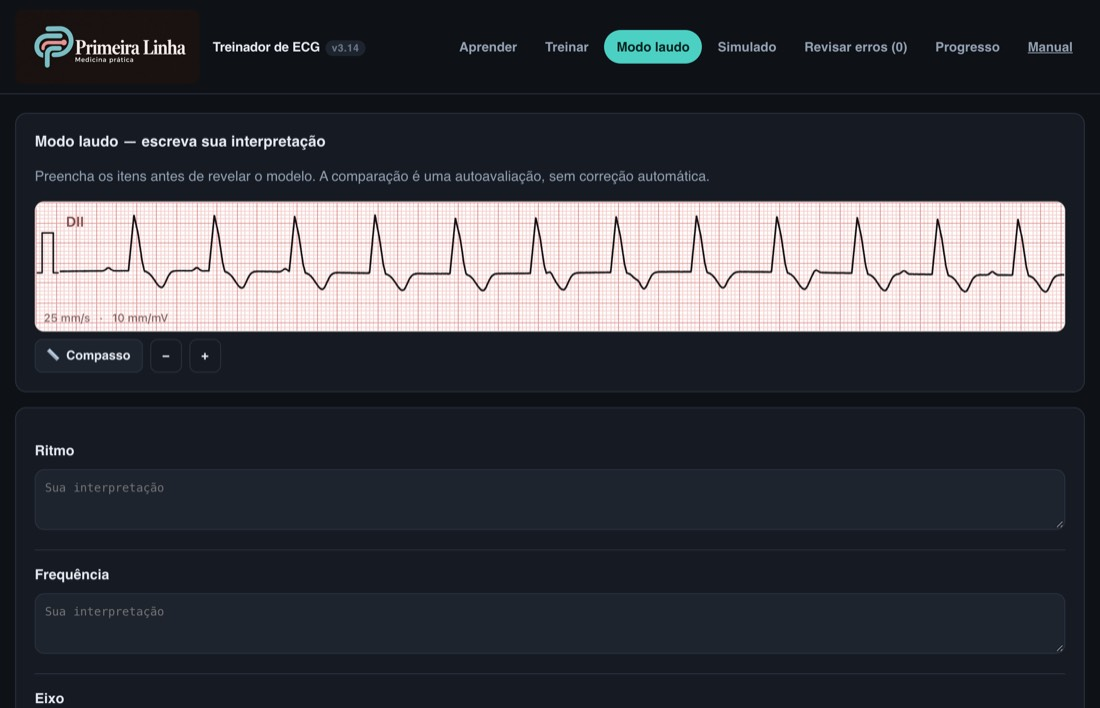
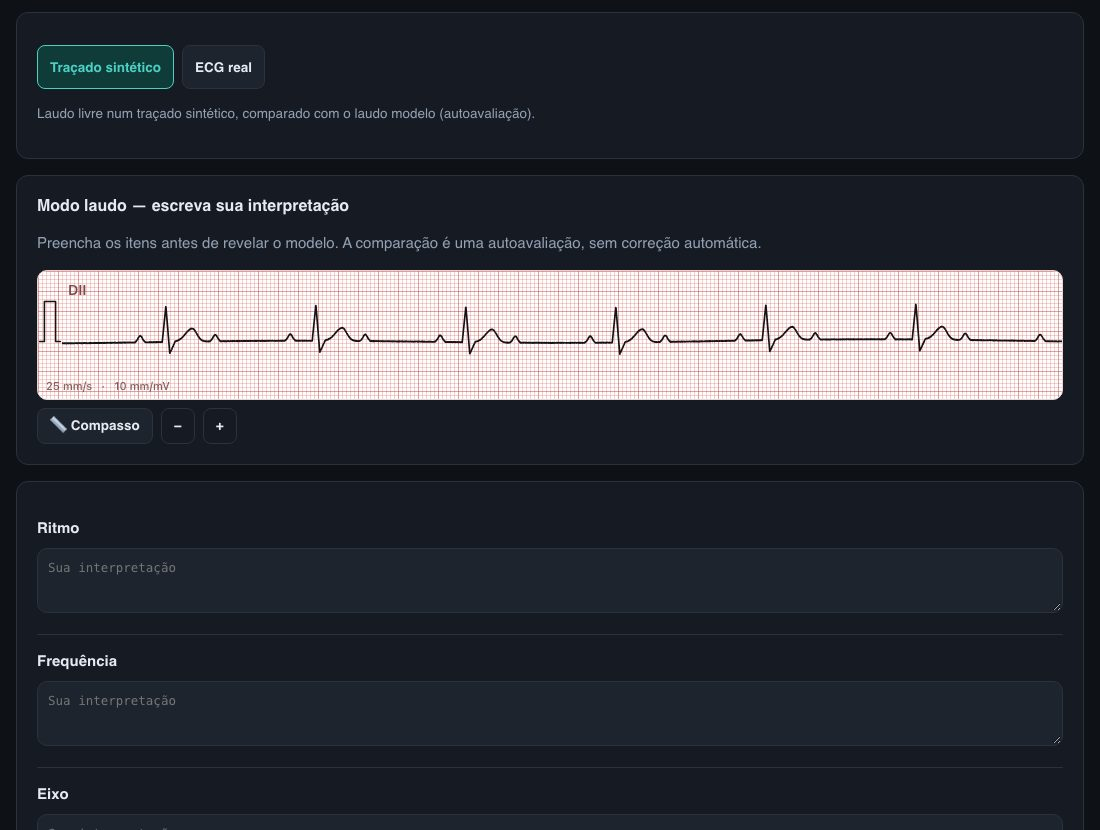
Treinador de ECG v3.19

diff --git a/manual.html b/manual.html
@@ -73,11 +73,11 @@ footer{color:#526b62;font-size:14px;padding:0 24px 30px;max-width:1028px;margin:
 <li>Abra o endereço do treinador ou, no computador, dê dois cliques no <strong>index.html</strong> da pasta do aplicativo.</li>
 <li>Em <strong>Aprender</strong>, comece por “O papel do ECG”.</li>
 <li>Depois, abra <strong>Treinar → ECG rápido</strong> e responda uma questão.</li>
-<li>Os ECGs de pacientes (base aberta PTB-XL) aparecem dentro das atividades: <strong>Aprender → Atlas de ECGs reais</strong> e o cartão "No ECG real" nas aulas, <strong>Treinar → ECG real</strong> e <strong>Modo laudo → ECG real</strong>.</li>
+<li>Quando quiser ver ECGs de pacientes, use <strong>Aprender → Atlas de ECGs reais</strong>, <strong>Treinar → ECG real</strong> e <strong>Modo laudo → ECG real</strong> (seção 2).</li>
 <li>Leia a explicação, volte à ficha se precisar e acompanhe seus resultados em <strong>Progresso</strong>.</li>
 </ol>
 <div class="callout"><strong>Não é preciso criar conta.</strong> Seu progresso fica salvo neste navegador. Para estudar em outro aparelho, transfira um backup (seção 9). Não há sincronização automática.</div>
-<p>O treinador reúne <strong>8 aulas de fundamentos, 52 padrões de ECG, 14 casos clínicos e traçados reais da base aberta PTB-XL</strong>. Os traçados sintéticos e os casos são material de estudo: não substituem a avaliação de pacientes nem os protocolos da sua instituição.</p>
+<p>O treinador reúne <strong>aulas de fundamentos, padrões de ECG, casos clínicos e ECGs de pacientes da base aberta PTB-XL</strong>. Os traçados sintéticos e os casos são material de estudo: não substituem a avaliação de pacientes nem os protocolos da sua instituição.</p>
 </section>
 
 <section id="aprender">
@@ -98,6 +98,16 @@ footer{color:#526b62;font-size:14px;padding:0 24px 30px;max-width:1028px;margin:
 <h3>Fichas dos padrões</h3>
 <figure><img src="manual-assets/ficha.jpg" alt="Ficha do padrão Fibrilação atrial com o traçado, controles de compasso e zoom e o painel Entenda este traçado" loading="lazy"><figcaption>Ficha de um padrão: traçado, domínio atual (0/4) e destaques para localizar os achados.</figcaption></figure>
 <p>Cada ficha traz critérios, armadilhas, conduta educacional e laudo modelo. <strong>↻ Outro traçado</strong> gera outra variação do mesmo padrão, mantendo os critérios.</p>
+<h3>ECGs de pacientes</h3>
+<p>Os traçados das aulas e fichas são <strong>sintéticos</strong>: mostram o achado limpo e isolado. O treinador também traz <strong>ECGs reais</strong> de pacientes anônimos, do banco aberto PTB-XL (PhysioNet), com ruído, variações e achados que convivem no mesmo traçado.</p>
+<figure><img src="manual-assets/aula-ecg-real.jpg" alt="Cartão No ECG real numa ficha de padrão, com ECG de paciente de 12 derivações e o laudo da fonte recolhido" loading="lazy"><figcaption>Nas fichas que têm um exemplo real, o cartão <strong>No ECG real</strong> aparece abaixo do traçado sintético.</figcaption></figure>
+<ol>
+<li>Na ficha de um padrão, procure o cartão <strong>No ECG real</strong> e toque em <strong>Ver traçado real</strong>.</li>
+<li>Procure os critérios no traçado antes de abrir <strong>Laudo e códigos da fonte</strong>.</li>
+<li>Para ver todos, abra <strong>Atlas de ECGs reais</strong>, no fim da lista à esquerda. Filtre por categoria, escolha o traçado, meça com o compasso e só depois toque em <strong>Revelar anotações da fonte</strong>.</li>
+</ol>
+<figure><img src="manual-assets/atlas-real.jpg" alt="Atlas de ECGs reais: lista à esquerda, filtros por categoria, seletor do traçado e ECG de 12 derivações" loading="lazy"><figcaption>Atlas de ECGs reais, dentro de Aprender.</figcaption></figure>
+<div class="callout"><strong>O que vem da fonte e o que vem do treinador.</strong> O laudo original (em alemão, inglês ou sueco), os códigos e as medidas automáticas vêm da base; a tradução e os títulos são do treinador. Os gabaritos ainda não passaram por revisão de especialista. Fontes e licença: <a href="fontes-ecg.html">página de fontes dos ECGs reais</a>.</div>
 </section>
 
 <section id="ferramentas">
@@ -114,19 +124,28 @@ footer{color:#526b62;font-size:14px;padding:0 24px 30px;max-width:1028px;margin:
 
 <section id="treinar">
 <h2>4. Treino rápido</h2>
-<figure><img src="manual-assets/treino-questao.jpg" alt="Tela Treinar com os temas, os formatos ECG rápido e Casos clínicos e uma questão com traçado" loading="lazy"><figcaption>Escolha o tema e o formato no alto. A linha de contadores mostra sequência, recorde e acertos.</figcaption></figure>
+<figure><img src="manual-assets/treino-questao.jpg" alt="Tela Treinar com os temas, os formatos ECG rápido, Casos clínicos e ECG real e uma questão com traçado" loading="lazy"><figcaption>Escolha o tema e o formato no alto. A linha de contadores mostra sequência, recorde e acertos.</figcaption></figure>
 <ol>
 <li>Abra <strong>Treinar</strong> e escolha um tema: <strong>Treino geral</strong>, <strong>Infarto e isquemia</strong>, <strong>Taquiarritmias</strong>, <strong>Metabólico e outros</strong> ou <strong>Bradiarritmias</strong>.</li>
 <li>Selecione <strong>ECG rápido</strong>.</li>
-<li>Observe o traçado e escolha uma alternativa. As opções podem incluir diagnósticos de outros temas.</li>
+<li>Observe o traçado e responda. A pergunta varia: <strong>qual é o diagnóstico</strong>, <strong>qual achado melhor define o diagnóstico</strong> ou <strong>qual é a conduta</strong>. As opções podem incluir diagnósticos de outros temas.</li>
 <li>Leia a correção, os critérios, a pegadinha e a conduta. <strong>Ver ficha completa</strong> abre a ficha do padrão.</li>
 <li>Clique em <strong>Próximo traçado →</strong> para continuar.</li>
 </ol>
 <figure><img src="manual-assets/treino-feedback.jpg" alt="Questão respondida: alternativa escolhida em vermelho, correta em verde, quadro Incorreto e lista de critérios" loading="lazy"><figcaption>Depois da resposta: a alternativa correta fica verde, a errada vermelha, e os critérios aparecem logo abaixo.</figcaption></figure>
-<p>No computador, as teclas <strong>A–D</strong> respondem e <strong>Enter</strong> avança. Os atalhos não funcionam nos casos clínicos nem enquanto você digita em um campo.</p>
+<p>No computador, as teclas <strong>A–D</strong> respondem e <strong>Enter</strong> avança. Os atalhos não funcionam nos casos clínicos, no ECG real nem enquanto você digita em um campo.</p>
 <p>O treinador prioriza revisões vencidas e padrões que você ainda não domina. A sequência de acertos vale para a sessão; o recorde fica salvo.</p>
 <h3>ECG real no treino</h3>
-<p>Em <strong>Treinar → ECG real</strong> há duas opções. <strong>Qual o diagnóstico?</strong> mostra ECGs de pacientes com diagnóstico principal inequívoco segundo a fonte, com quatro alternativas. <strong>Normal ou alterado?</strong>: você decide só se o traçado é normal. Cerca de 4 em cada 10 são normais, de pessoas de idades variadas. O objetivo é treinar o olhar para não ver doença onde não há: ruído, pequenas variações de amplitude e diferenças entre batimentos fazem parte de um ECG real normal. Depois de responder, aparecem as medidas do traçado (nos normais) ou o principal achado (nos alterados), além do laudo da fonte. O placar vale só para a sessão.</p>
+<p>Em <strong>Treinar</strong>, escolha o formato <strong>ECG real</strong>. Os temas somem, porque valem só para os traçados sintéticos. Há duas opções:</p>
+<ul>
+<li><strong>Qual o diagnóstico?</strong> ECGs de pacientes com diagnóstico principal inequívoco segundo a fonte, com quatro alternativas. A resposta mostra o laudo original e os outros achados do traçado.</li>
+<li><strong>Normal ou alterado?</strong> Você decide só se o traçado é normal. Cerca de 4 em cada 10 são normais, de pessoas de idades variadas. Serve para treinar o olhar a não ver doença onde não há: ruído, pequenas variações de amplitude e diferenças entre batimentos fazem parte de um ECG normal.</li>
+</ul>
+<div class="figs">
+<figure><img src="manual-assets/treino-real.jpg" alt="Questão de ECG real respondida: alternativa errada em vermelho, correta em verde e quadro com o laudo original" loading="lazy"><figcaption>Qual o diagnóstico? Depois da resposta, o laudo e os códigos da fonte.</figcaption></figure>
+<figure><img src="manual-assets/normal-alterado.jpg" alt="Normal ou alterado respondido: ECG normal com as medidas do traçado e a explicação" loading="lazy"><figcaption>Normal ou alterado? Nos normais, aparecem as medidas do traçado.</figcaption></figure>
+</div>
+<p>O treino com ECG real é livre: não entra no progresso nem nas revisões, e o placar vale só para a sessão.</p>
 </section>
 
 <section id="casos">
@@ -164,9 +183,10 @@ footer{color:#526b62;font-size:14px;padding:0 24px 30px;max-width:1028px;margin:
 
 <section id="laudo">
 <h2>6. Modo laudo</h2>
-<figure><img src="manual-assets/laudo.jpg" alt="Modo laudo com ECG de 12 derivações para interpretação" loading="lazy"><figcaption>Interprete o traçado antes de abrir o modelo.</figcaption></figure>
+<p>No alto da tela, escolha o tipo de traçado: <strong>Traçado sintético</strong> (laudo livre, comparado com o modelo) ou <strong>ECG real</strong> (laudo guiado, corrigido por etapa).</p>
+<figure><img src="manual-assets/laudo.jpg" alt="Modo laudo com a escolha Traçado sintético ou ECG real e um ECG de 12 derivações para interpretação" loading="lazy"><figcaption>Interprete o traçado antes de abrir o modelo.</figcaption></figure>
 <ol>
-<li>Abra <strong>Modo laudo</strong> e analise o ECG.</li>
+<li>Abra <strong>Modo laudo</strong>, mantenha <strong>Traçado sintético</strong> e analise o ECG.</li>
 <li>Preencha ritmo, frequência, eixo, PR, QRS, ST‑T e conclusão.</li>
 <li>Clique em <strong>Revelar laudo modelo</strong>.</li>
 <li>Compare cada item e marque <strong>Acertei</strong> ou <strong>Revisar</strong>.</li>
@@ -175,11 +195,13 @@ footer{color:#526b62;font-size:14px;padding:0 24px 30px;max-width:1028px;margin:
 <figure><img src="manual-assets/laudo-modelo.jpg" alt="Laudo revelado: resposta do usuário, modelo abaixo e botões Acertei e Revisar" loading="lazy"><figcaption>Depois de revelar: sua resposta, o modelo e a sua autoavaliação em cada item.</figcaption></figure>
 <p>É uma <strong>autoavaliação</strong>: o aplicativo não corrige o texto automaticamente. <strong>Pular caso</strong> troca de ECG sem registrar resultado. O rascunho fica só na sessão e não entra no backup.</p>
 <h3>Laudo guiado no ECG real</h3>
-<p>Em <strong>Modo laudo</strong>, escolha <strong>ECG real</strong> no alto da tela. Você lê um traçado de paciente na ordem do roteiro: <strong>ritmo → frequência → eixo → intervalos → ST e onda T → conclusão</strong>. Cada etapa é corrigida antes da próxima.</p>
+<p>Em <strong>Modo laudo</strong>, escolha <strong>ECG real</strong> no alto da tela. Você lê um traçado de paciente na ordem do roteiro: <strong>ritmo → frequência → eixo → intervalos → ST e onda T → conclusão</strong>. Responda a etapa, toque em <strong>Corrigir etapa</strong> e veja o gabarito antes de seguir.</p>
+<figure><img src="manual-assets/laudo-real.jpg" alt="Laudo guiado: etapas de ritmo, frequência e eixo já corrigidas e campos de PR, QRS e QTc para preencher" loading="lazy"><figcaption>Cada etapa respondida mostra o que você marcou e a referência.</figcaption></figure>
 <ul>
 <li><strong>Corrigidos com tolerância:</strong> ritmo (pela base), frequência (±10%, mínimo ±5 bpm), eixo (a 10° de um limite, as duas classes valem), PR e QRS (±20 ms) e QTc pela fórmula de Bazett (±30 ms). Use o <strong>📏 Compasso</strong> para medir.</li>
 <li><strong>Autoavaliação:</strong> ST e onda T. No fim aparece o laudo original para comparar.</li>
-<li><strong>Conclusão:</strong> corrigida só nos traçados com diagnóstico inequívoco; nos outros, você escreve e compara com a fonte.</li>
+<li><strong>Conclusão:</strong> corrigida nos traçados com diagnóstico inequívoco e nos ECGs normais; nos outros, você escreve e compara com a fonte.</li>
+<li><strong>Outro traçado ↻</strong> troca de ECG; no fim, <strong>Refazer este traçado</strong> ou <strong>Próximo traçado →</strong>.</li>
 </ul>
 <p>As medidas de referência são automáticas, de um algoritmo de eletrocardiógrafo, e não de um especialista. O laudo guiado não entra no progresso.</p>
 </section>
@@ -209,8 +231,9 @@ footer{color:#526b62;font-size:14px;padding:0 24px 30px;max-width:1028px;margin:
 
 <section id="progresso">
 <h2>9. Progresso e transferência</h2>
-<figure><img src="manual-assets/progresso.jpg" alt="Tela Progresso com padrões dominados, aproveitamento, melhor sequência, questões respondidas e o quadro Levar meu progresso para outro aparelho" loading="lazy"><figcaption>Resumo do desempenho e transferência de progresso.</figcaption></figure>
+<figure><img src="manual-assets/progresso.jpg" alt="Tela Progresso com padrões dominados, aproveitamento, melhor sequência, questões respondidas, desempenho por tema e o quadro Levar meu progresso para outro aparelho" loading="lazy"><figcaption>Resumo, desempenho por tema e transferência de progresso.</figcaption></figure>
 <p>O painel mostra padrões dominados, aproveitamento, melhor sequência e questões respondidas. Um padrão é dominado depois de quatro acertos acumulados; um erro reinicia a contagem. Concluir um caso também registra resultado no padrão principal dele.</p>
+<p><strong>Desempenho por tema</strong> mostra a taxa de acerto em cada tema que você já treinou. A barra fica verde a partir de 80% e vermelha abaixo de 60%: comece a próxima sessão pelos temas em vermelho.</p>
 <h3>Levar o progresso para outro aparelho</h3>
 <ol class="steps">
 <li>No aparelho onde você estudou por último, abra <strong>Progresso → Baixar backup</strong>. O arquivo JSON leva data e hora no nome.</li>
@@ -246,6 +269,7 @@ footer{color:#526b62;font-size:14px;padding:0 24px 30px;max-width:1028px;margin:
 <p>Os nomes podem variar conforme o navegador. Depois de instalado, o treinador funciona sem internet; só os links para referências externas precisam de conexão.</p>
 </div>
 </div>
+<figure><img src="manual-assets/atualizar.jpg" alt="Cabeçalho com o número da versão e o botão Atualizar em destaque" loading="lazy"><figcaption>Com versão nova publicada, o botão fica em destaque.</figcaption></figure>
 <p>A versão fica ao lado do nome do aplicativo, junto do botão <strong>↻ Verificar atualização</strong> (no celular, só o ícone ↻). Toque nele para saber na hora se há versão nova. Se houver, o botão muda para <strong>Atualizar</strong>: termine o exercício e toque. O aplicativo também confere sozinho ao abrir e mostra o aviso <strong>Nova versão disponível</strong>. Não apague os dados do site para atualizar: isso apaga o progresso.</p>
 <p>Se trocar o endereço de acesso (por exemplo, do arquivo no computador para o endereço na internet), baixe um backup antes e importe no novo endereço: o navegador guarda o progresso de cada endereço separadamente.</p>
 </section>
@@ -259,6 +283,8 @@ footer{color:#526b62;font-size:14px;padding:0 24px 30px;max-width:1028px;margin:
 <h3>O compartilhamento não abriu</h3><p>Use <strong>Baixar backup</strong>, procure o JSON na pasta de downloads e envie-o manualmente.</p>
 <h3>O backup foi recusado</h3><p>Selecione o JSON exportado pelo treinador, sem editar. Arquivos acima de 1 MB são recusados. Se a mensagem falar em versão, atualize o treinador de destino.</p>
 <h3>O navegador avisou que não conseguiu salvar</h3><p>Baixe um backup imediatamente e verifique o espaço e as permissões do navegador. Uma importação que falha não substitui o progresso atual.</p>
+<h3>O ECG real conta no progresso?</h3><p>Não. O treino com ECG real e o laudo guiado são livres: servem para praticar, sem mexer no domínio dos padrões nem nas revisões.</p>
+<h3>Minha medida foi diferente da referência no laudo guiado</h3><p>A referência é a medida automática do eletrocardiógrafo, não a de um especialista. Diferenças pequenas são esperadas; a tolerância de cada item aparece na correção.</p>
 <h3>Posso estudar em duas abas?</h3><p>Prefira uma aba por vez. Duas abas do mesmo endereço gravam no mesmo lugar e podem sobrescrever uma à outra.</p>
 </section>
 
@@ -268,6 +294,7 @@ footer{color:#526b62;font-size:14px;padding:0 24px 30px;max-width:1028px;margin:
 <li><strong>5 minutos:</strong> revise uma aula e teste sua memória.</li>
 <li><strong>10 minutos:</strong> resolva ECGs rápidos de um tema.</li>
 <li><strong>Um caso:</strong> pratique chegada, interpretação, conduta e evolução.</li>
+<li><strong>Um ECG real:</strong> faça um laudo guiado ou alguns “normal ou alterado?”.</li>
 <li><strong>Antes de sair:</strong> veja as revisões disponíveis e baixe um backup se for trocar de aparelho.</li>
 </ol>
 <p>É só uma sugestão. Use seus erros para escolher o próximo assunto.</p>

diff --git a/sw.js b/sw.js
@@ -1,7 +1,7 @@
-/* Treinador ECG 3.13.0: cache isolado e instalação atômica. */
+/* Treinador de ECG: cache isolado, instalação atômica e imutável por versão. */
 const PREFIX = 'treinador-ecg-';
-const VERSION = PREFIX + 'v3.18.0';
-const FILES = ['./','./index.html','./manual.html','./manual-assets/aprender.jpg','./manual-assets/aula-ciclo.jpg','./manual-assets/aula-derivacoes.jpg','./manual-assets/caso-checklist.jpg','./manual-assets/caso-chegada.jpg','./manual-assets/caso-ecg.jpg','./manual-assets/caso-feedback.jpg','./manual-assets/caso-resposta.jpg','./manual-assets/casos-catalogo.jpg','./manual-assets/celular.jpg','./manual-assets/ficha.jpg','./manual-assets/importar-previa.jpg','./manual-assets/laudo-modelo.jpg','./manual-assets/laudo.jpg','./manual-assets/progresso.jpg','./manual-assets/revisar.jpg','./manual-assets/simulado-menu.jpg','./manual-assets/simulado-questao.jpg','./manual-assets/simulado-resultado.jpg','./manual-assets/simulado-trocar.jpg','./manual-assets/treino-feedback.jpg','./manual-assets/treino-questao.jpg','./manifest.webmanifest','./icon-192.png','./icon-512.png','./icon-maskable-512.png','./favicon.png','./logo-primeira-linha-medicina-pratica.png',
+const VERSION = PREFIX + 'v3.19.0';
+const FILES = ['./','./index.html','./manual.html','./manual-assets/aprender.jpg','./manual-assets/treino-real.jpg','./manual-assets/normal-alterado.jpg','./manual-assets/laudo-real.jpg','./manual-assets/atualizar.jpg','./manual-assets/aula-ecg-real.jpg','./manual-assets/atlas-real.jpg','./manual-assets/aula-ciclo.jpg','./manual-assets/aula-derivacoes.jpg','./manual-assets/caso-checklist.jpg','./manual-assets/caso-chegada.jpg','./manual-assets/caso-ecg.jpg','./manual-assets/caso-feedback.jpg','./manual-assets/caso-resposta.jpg','./manual-assets/casos-catalogo.jpg','./manual-assets/celular.jpg','./manual-assets/ficha.jpg','./manual-assets/importar-previa.jpg','./manual-assets/laudo-modelo.jpg','./manual-assets/laudo.jpg','./manual-assets/progresso.jpg','./manual-assets/revisar.jpg','./manual-assets/simulado-menu.jpg','./manual-assets/simulado-questao.jpg','./manual-assets/simulado-resultado.jpg','./manual-assets/simulado-trocar.jpg','./manual-assets/treino-feedback.jpg','./manual-assets/treino-questao.jpg','./manifest.webmanifest','./icon-192.png','./icon-512.png','./icon-maskable-512.png','./favicon.png','./logo-primeira-linha-medicina-pratica.png',
   './js/motor.js','./js/papel.js','./dados/padroes.js','./js/aprender-visual.js','./dados/fundamentos.js','./js/fundamentos.js','./dados/casos-clinicos.js','./dados/casos-v3.13.js','./js/app.js','./dados/ecgs-reais.js','./js/ecgs-reais.js','./js/laudo-real.js','./js/normal-alterado.js','./fontes-ecg.html','./licencas/PTB-XL-CC-BY-4.0.txt','./js/inicio.js'];
 self.addEventListener('install', event => {
   event.waitUntil(caches.open(VERSION).then(cache => cache.addAll(FILES)).then(() => self.skipWaiting()));
@@ -9,20 +9,21 @@ self.addEventListener('install', event => {
 self.addEventListener('activate', event => {
   event.waitUntil(caches.keys().then(keys => Promise.all(keys.filter(key => key.startsWith(PREFIX) && key !== VERSION).map(key => caches.delete(key)))).then(() => self.clients.claim()));
 });
+/* Cache imutável por versão: a página e os scripts saem sempre do mesmo pacote, instalado inteiro.
+   Uma versão nova só entra com um sw.js novo (VERSION diferente). Antes, a página vinha da rede e os
+   scripts do cache antigo, e o app rodava misturado no primeiro acesso após cada publicação.
+   A rede só é usada para o que não está no pacote; a verificação de versão (?_verificar) passa direto. */
 self.addEventListener('fetch', event => {
   const request = event.request, url = new URL(request.url);
   if(request.method !== 'GET' || url.origin !== self.location.origin || url.searchParams.has('_verificar')) return;
-  const network = fetch(request).then(async response => {
-    if(response.ok && response.type === 'basic') {
-      try {const cache=await caches.open(VERSION);await cache.put(request,response.clone());}catch(error){}
-    }
-    return response;
-  }).catch(() => null);
-  event.waitUntil(network);
   event.respondWith((async () => {
-    const cache=await caches.open(VERSION);
-    // Navegação usa a versão da rede quando disponível; atualização não relê HTML antigo.
-    if(request.mode === 'navigate') return await Promise.race([network,new Promise(resolve=>setTimeout(()=>resolve(null),2500))]) || await cache.match(request) || await cache.match('./index.html') || new Response('Aplicativo indisponível offline.',{status:503});
-    return await cache.match(request) || await network || new Response('',{status:503});
+    const cache = await caches.open(VERSION);
+    const hit = await cache.match(request, request.mode === 'navigate' ? {ignoreSearch: true} : undefined);
+    if(hit) return hit;
+    try { return await fetch(request); }
+    catch(error){
+      if(request.mode === 'navigate') return await cache.match('./index.html') || new Response('Aplicativo indisponível offline.', {status: 503, headers: {'Content-Type': 'text/plain; charset=utf-8'}});
+      return new Response('', {status: 503});
+    }
   })());
 });

diff --git a/index.html b/index.html
@@ -228,6 +228,14 @@ table.tab tr:hover td{background:var(--bg3)}
 .regua div:last-child{border-right:0}
 .regua div span{display:block;font-size:10.5px;font-weight:500;color:var(--dim2);letter-spacing:.3px}
 .regua div.verde{background:var(--ok-d);color:var(--ok)}
+/* Treinos com ECG real (Treinar → ECG real, Modo laudo → ECG real): alternativas e retorno com o mesmo visual do treino rápido. */
+.row{display:flex;gap:12px;align-items:flex-start}.row.between{justify-content:space-between}.row.wrap{flex-wrap:wrap}
+.choices{display:grid;gap:8px;margin-top:12px}
+.choices .btn.full{width:100%;margin:0;text-align:left;padding:11px 14px;border-radius:10px;font-size:14.5px;line-height:1.45}
+.btn.correct{background:var(--ok-d);border-color:var(--ok)}.btn.wrong{background:var(--err-d);border-color:var(--err)}
+.choices .btn.on{border-color:var(--acc);box-shadow:inset 0 0 0 1px var(--acc)}
+.box.bad{background:var(--err-d);border-color:var(--err)}
+.mt-8{margin-top:8px}.mt-12{margin-top:12px}.mt-16{margin-top:16px}
 .guia-trilha{display:flex;flex-wrap:wrap;gap:6px;list-style:none;padding:0;margin:10px 0;counter-reset:g}
 .guia-trilha li{counter-increment:g;font-size:12px;padding:3px 10px;border-radius:99px;background:var(--bg3);color:var(--dim2)}
 .guia-trilha li::before{content:counter(g) ". "}
@@ -321,7 +329,7 @@ button:focus-visible,input:focus-visible,select:focus-visible,textarea:focus-vis
   <div class="top-in">
     <div class="brand">
       <img class="pl-logo" src="logo-primeira-linha-medicina-pratica.png" alt="Primeira Linha — Medicina prática" width="198" height="80">
-      <span class="brand-title">Treinador de ECG <span class="ver">v3.18</span></span>
+      <span class="brand-title">Treinador de ECG <span class="ver">v3.19</span></span>
     </div>
     <nav class="tabs" id="tabs"></nav>
   </div>
